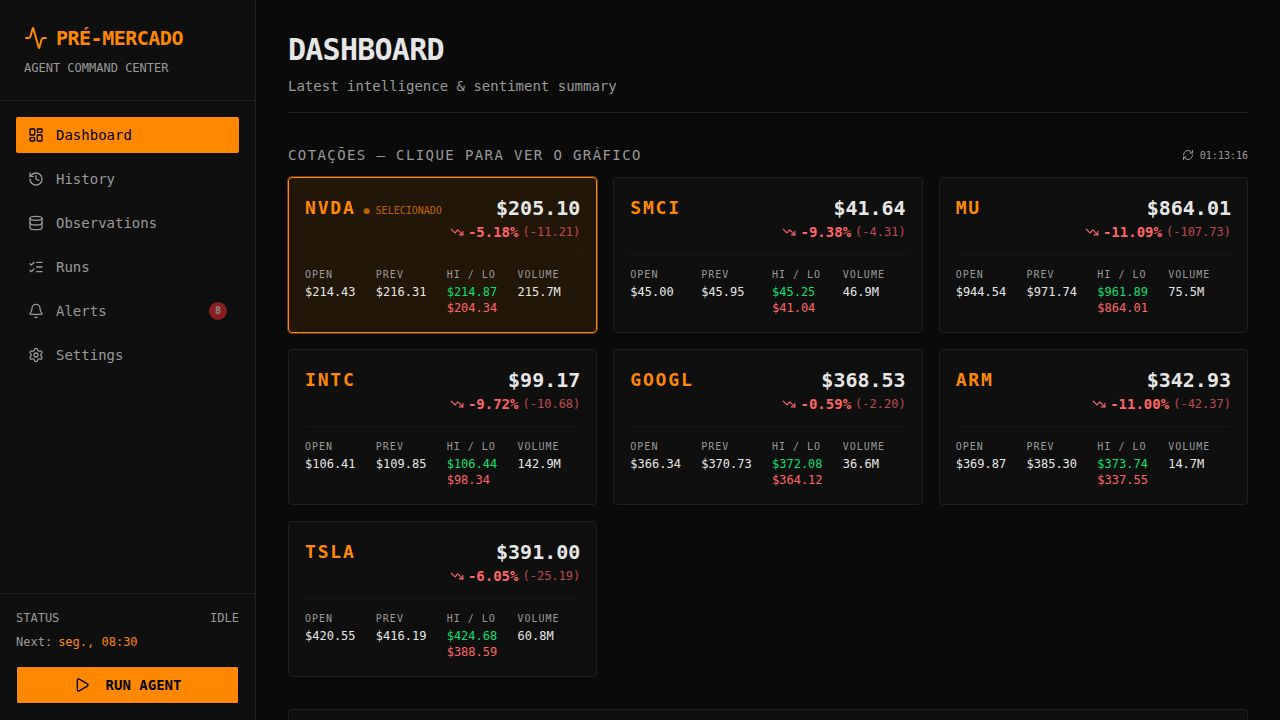
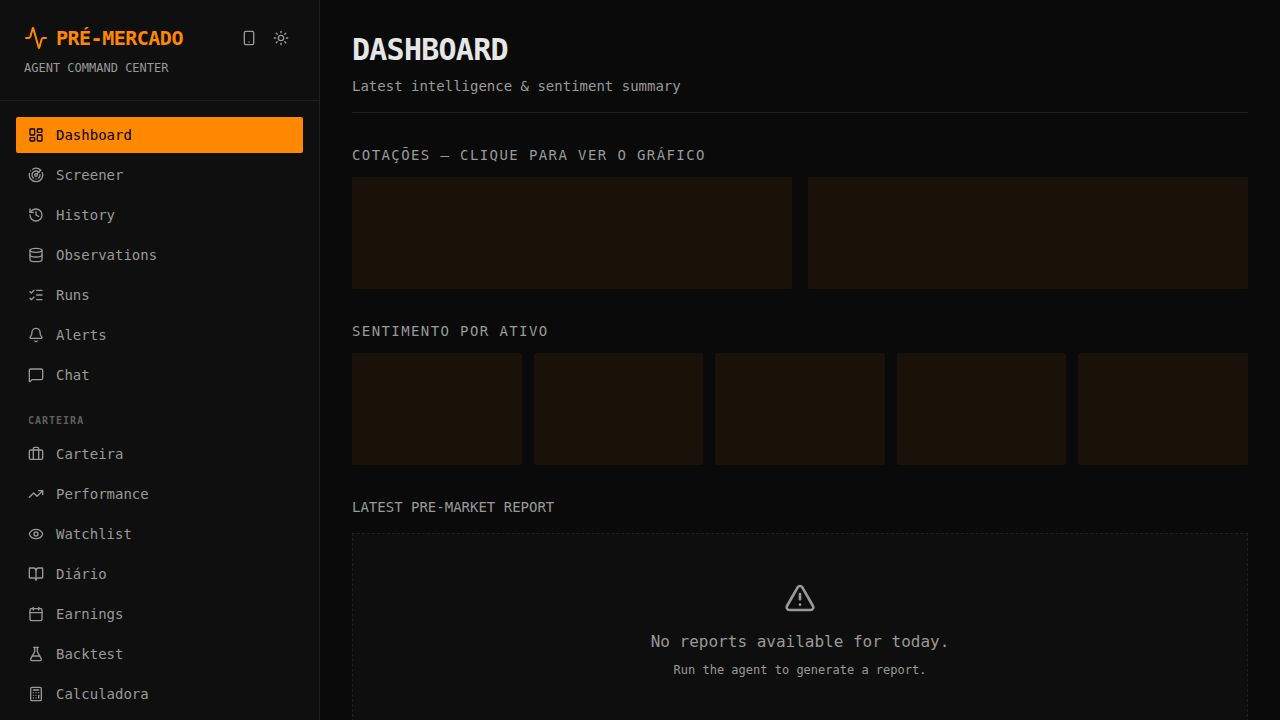
Traz PR #20 (fixes do gráfico TradingView) e conserta deps da API
Pedido: trazer a PR #20 do GitHub para o projeto local. Como as escritas
de git são bloqueadas no ambiente e a #20 ainda está aberta (não mergeada),
apliquei o diff exato da PR direto nos arquivos via GitHub API.

PR #20 (continuação da #19), 2 arquivos:
- tradingview-chart.tsx: wrapper externo de altura fixa (autosize:true
  sobrescrevia a altura e colapsava o gráfico) + overlay de carregamento
  (useState + Loader2 + script.onload)
- portfolio.tsx: cores legíveis nos tooltips do Recharts (labelStyle/
  itemStyle) e span colorido no tooltip de notícias

Correção fora do escopo original, mas necessária: a API estava FALHANDO no
boot porque a PR #21 (login email/senha, já mergeada antes) importa bcryptjs
e jsonwebtoken, mas essas deps nunca foram declaradas no package.json nem
instaladas (provável perda em conflito de merge). Adicionadas bcryptjs e
jsonwebtoken como dependencies e @user/jsonwebtoken como devDependency
(bcryptjs@3 já traz os próprios tipos, então @user/bcryptjs foi dispensado).

Verificação: typecheck premarket e api-server OK; API de volta no ar
(/api/healthz 200); gráfico renderiza na altura correta.

Nota: a PR #20 continua aberta no GitHub; trouxe só o código.

diff --git a/artifacts/premarket/src/components/tradingview-chart.tsx b/artifacts/premarket/src/components/tradingview-chart.tsx
@@ -1,4 +1,5 @@
-import { useEffect, useRef } from "react";
+import { useEffect, useRef, useState } from "react";
+import { Loader2 } from "lucide-react";
 
 // ─── TradingViewChart ────────────────────────────────────────────────────────
 // Embed oficial e gratuito do widget "Advanced Real-Time Chart" da TradingView
@@ -19,8 +20,15 @@ interface TradingViewChartProps {
 
 export function TradingViewChart({ symbol, height = 400, interval = "D", hideSideToolbar = true }: TradingViewChartProps) {
   const containerRef = useRef<HTMLDivElement>(null);
+  // O script só dispara onload quando o iframe deles termina de carregar --
+  // não temos como saber quando o candle em si termina de pintar (é um
+  // iframe de outro domínio), então isso cobre o trecho "container vazio"
+  // e deixa o resto do carregamento visível pro spinner interno da própria
+  // TradingView.
+  const [isReady, setIsReady] = useState(false);
 
   useEffect(() => {
+    setIsReady(false);
     const container = containerRef.current;
     if (!container) return;
     container.innerHTML = "";
@@ -35,6 +43,7 @@ export function TradingViewChart({ symbol, height = 400, interval = "D", hideSid
     script.type = "text/javascript";
     script.src = "https://s3.tradingview.com/external-embedding/embed-widget-advanced-chart.js";
     script.async = true;
+    script.onload = () => setIsReady(true);
     // O widget lê essa config do próprio texto da tag <script> (não é eval
     // nosso) -- é assim que o embed oficial da TradingView funciona.
     script.text = JSON.stringify({
@@ -57,5 +66,21 @@ export function TradingViewChart({ symbol, height = 400, interval = "D", hideSid
     };
   }, [symbol, interval, hideSideToolbar]);
 
-  return <div className="tradingview-widget-container" ref={containerRef} style={{ height, width: "100%" }} />;
+  // O script injeta autosize:true, que faz a própria TradingView sobrescrever
+  // a altura do elemento com a classe "tradingview-widget-container" pra
+  // 100% (ela assume que é ela quem controla o próprio container, esperando
+  // que UM PAI tenha a altura fixa). Por isso a altura pedida vai num wrapper
+  // por fora, não no elemento que o script vai mexer -- senão a altura pedida
+  // é sobrescrita e o gráfico colapsa pra um valor mínimo.
+  return (
+    <div style={{ height, width: "100%", position: "relative" }}>
+      <div className="tradingview-widget-container" ref={containerRef} style={{ height: "100%", width: "100%" }} />
+      {!isReady && (
+        <div className="absolute inset-0 flex items-center justify-center gap-2 bg-card font-mono text-xs text-muted-foreground">
+          <Loader2 className="h-4 w-4 animate-spin" />
+          Carregando gráfico da TradingView...
+        </div>
+      )}
+    </div>
+  );
 }

diff --git a/artifacts/premarket/src/pages/portfolio.tsx b/artifacts/premarket/src/pages/portfolio.tsx
@@ -334,6 +334,8 @@ function PriceChart({ ticker }: { ticker: string }) {
                 return d.toLocaleDateString("pt-BR", { day: "2-digit", month: "short", year: "numeric" });
               }}
               contentStyle={{ background: "#09090b", border: "1px solid #27272a", borderRadius: "6px", fontSize: "11px", fontFamily: "monospace" }}
+              labelStyle={{ color: "#a1a1aa" }}
+              itemStyle={{ color: "#e4e4e7" }}
             />
             <Bar dataKey="range" shape={CandleShape} isAnimationActive={false} />
             {candleNewsMarkers.map((m) => (
@@ -370,7 +372,7 @@ function PriceChart({ ticker }: { ticker: string }) {
               formatter={(value: number, name: string, item: { payload?: { newsItems?: { title: string }[] } }) => {
                 if (name === "newsY") {
                   const items = item?.payload?.newsItems ?? [];
-                  return [items.map((n) => n.title).join(" · "), "📰 Notícia"];
+                  return [<span style={{ color: "#e4e4e7" }}>{items.map((n) => n.title).join(" · ")}</span>, "📰 Notícia"];
                 }
                 return [`$${value.toFixed(2)}`, ticker];
               }}
@@ -380,6 +382,7 @@ function PriceChart({ ticker }: { ticker: string }) {
                 return d.toLocaleDateString("pt-BR", { day: "2-digit", month: "short", year: "numeric" });
               }}
               contentStyle={{ background: "#09090b", border: "1px solid #27272a", borderRadius: "6px", fontSize: "11px", fontFamily: "monospace" }}
+              labelStyle={{ color: "#a1a1aa" }}
             />
             <Line type="monotone" dataKey="v" stroke={color} dot={false} strokeWidth={1.5} isAnimationActive={false} />
             <Bar dataKey="newsY" shape={NewsMarkerShape} isAnimationActive={false} />
@@ -413,6 +416,8 @@ function AllocationChart({ data }: { data: AllocEntry[] }) {
               <RechartsTooltip
                 formatter={(value) => [fmt$(value as number), ""]}
                 contentStyle={{ background: "#09090b", border: "1px solid #27272a", borderRadius: "6px", fontSize: "11px", fontFamily: "monospace" }}
+                labelStyle={{ color: "#a1a1aa" }}
+                itemStyle={{ color: "#e4e4e7" }}
               />
             </PieChart>
           </ResponsiveContainer>